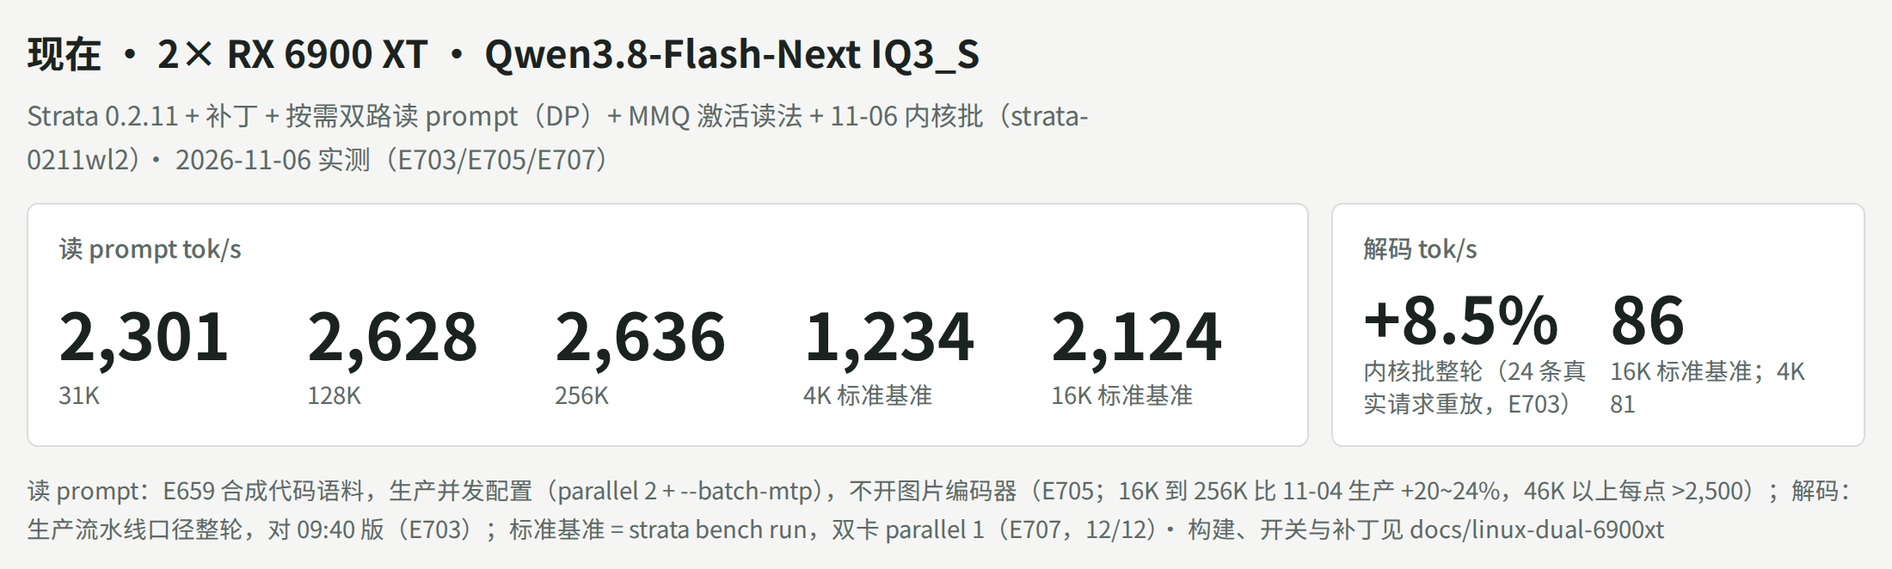
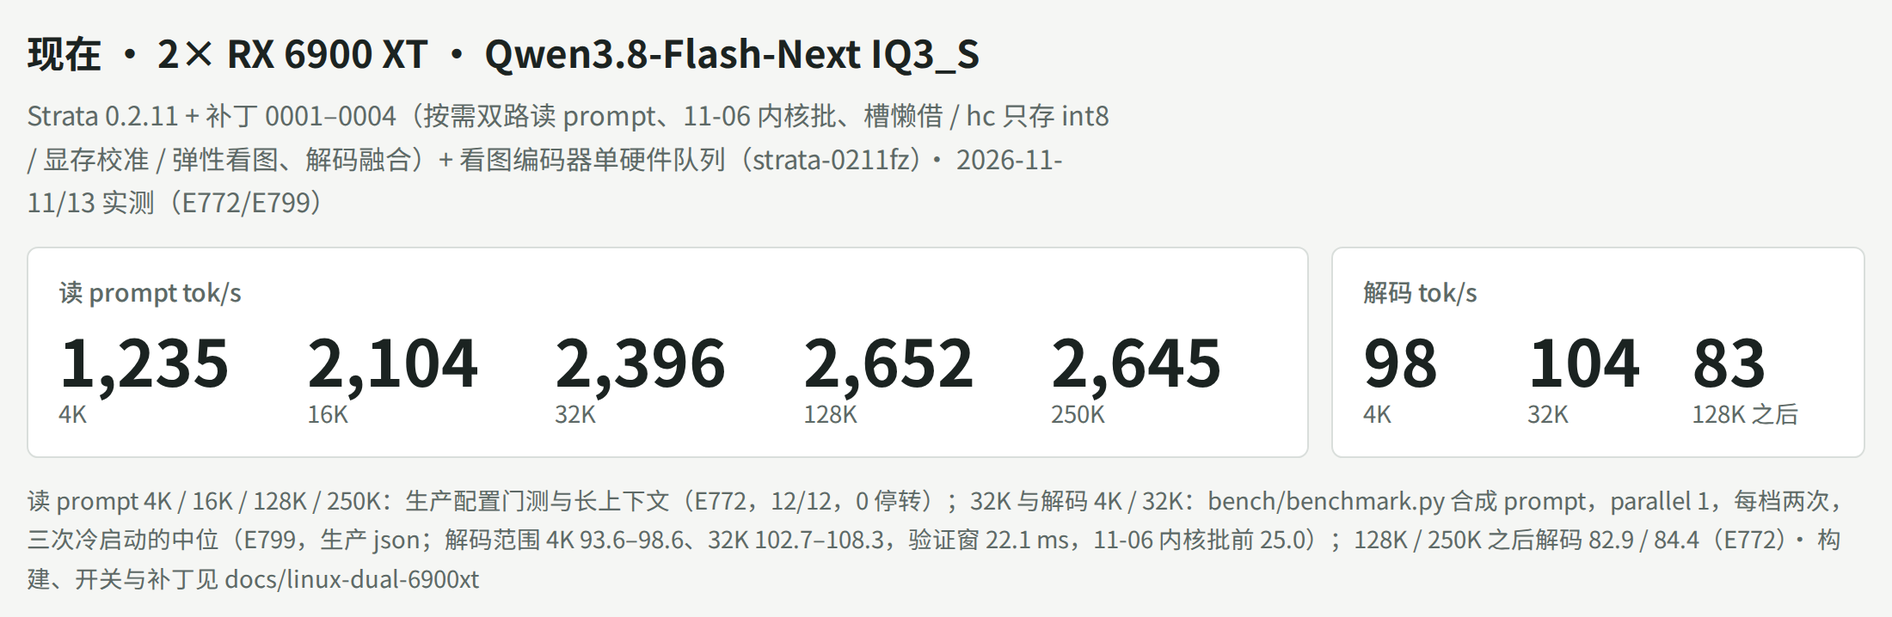
Now card and speed chart re-rendered for 0211fz (11-13)
index.html: the now card (prompt E772/E799, decode medians E799, after 128K E772), production
configuration details, two speed-chart points (11-06 kernel batch, 11-13 0211fz) with their
protocols in the chart note, axes 0-3000 / 20-110, five timeline steps 11-07 - 11-13;
data/linux-speed-steps.csv and timeline-steps CSVs follow.

diff --git a/index.html b/index.html
@@ -116,15 +116,15 @@ code{font-family:var(--f-data);font-size:.92em}
 <main>
 <section id="now">
   <h2><span class="zh">现在</span><span class="en">Now</span> · 2× RX 6900 XT · Qwen3.8-Flash-Next IQ3_S</h2>
-  <p class="now-sub"><span class="zh">Strata 0.2.11 + 补丁 + 按需双路读 prompt（DP）+ MMQ 激活读法 + 11-06 内核批（strata-0211wl2）· 2026-11-06 实测（E703/E705/E707）</span><span class="en">Strata 0.2.11 + patches + on-demand data-parallel prompt read (DP) + MMQ activation reads + the 11-06 kernel batch (strata-0211wl2) · measured 2026-11-06 (E703/E705/E707)</span></p>
+  <p class="now-sub"><span class="zh">Strata 0.2.11 + 补丁 0001–0004（按需双路读 prompt、11-06 内核批、槽懒借 / hc 只存 int8 / 显存校准 / 弹性看图、解码融合）+ 看图编码器单硬件队列（strata-0211fz）· 2026-11-11/13 实测（E772/E799）</span><span class="en">Strata 0.2.11 + patches 0001–0004 (on-demand DP prompt read, the 11-06 kernel batch, lazy slots / hc int8-only / VRAM calibration / elastic pictures, decode fusions) + the picture encoder on one hardware queue (strata-0211fz) · measured 2026-11-11/13 (E772/E799)</span></p>
   <div class="now2">
     <div class="grp"><span class="lbl"><span class="zh">读 prompt tok/s</span><span class="en">prompt tok/s</span></span>
-      <div class="row"><div><b>2,301</b><small>31K</small></div><div><b>2,628</b><small>128K</small></div><div><b>2,636</b><small>256K</small></div><div><b>1,234</b><small><span class="zh">4K 标准基准</span><span class="en">4K standard</span></small></div><div><b>2,124</b><small><span class="zh">16K 标准基准</span><span class="en">16K standard</span></small></div></div></div>
+      <div class="row"><div><b>1,235</b><small>4K</small></div><div><b>2,104</b><small>16K</small></div><div><b>2,396</b><small>32K</small></div><div><b>2,652</b><small>128K</small></div><div><b>2,645</b><small>250K</small></div></div></div>
     <div class="grp"><span class="lbl"><span class="zh">解码 tok/s</span><span class="en">decode tok/s</span></span>
-      <div class="row"><div><b>+8.5%</b><small><span class="zh">内核批整轮（24 条真实请求重放，E703）</span><span class="en">kernel batch, whole run (24 replayed real requests, E703)</span></small></div><div><b>86</b><small><span class="zh">16K 标准基准；4K 81</span><span class="en">16K standard; 4K 81</span></small></div></div></div>
+      <div class="row"><div><b>98</b><small>4K</small></div><div><b>104</b><small>32K</small></div><div><b>83</b><small><span class="zh">128K 之后</span><span class="en">after 128K</span></small></div></div></div>
   </div>
-  <p class="foot now-src"><span class="zh">读 prompt：E659 合成代码语料，生产并发配置（parallel 2 + --batch-mtp），不开图片编码器（E705；16K 到 256K 比 11-04 生产 +20~24%，46K 以上每点 >2,500）；解码：生产流水线口径整轮，对 09:40 版（E703）；标准基准 = strata bench run，双卡 parallel 1（E707，12/12）· 构建、开关与补丁见 docs/linux-dual-6900xt</span><span class="en">prompt: the E659 synthetic code corpus, production concurrent config (parallel 2 + --batch-mtp), no vision encoder (E705; +20~24% over the 11-04 production from 16K to 256K, every point from 46K up above 2,500); decode: production pipelined setup, whole run, against the 09:40 build (E703); standard = strata bench run, two cards, parallel 1 (E707, 12/12) · build, switches and patches: docs/linux-dual-6900xt</span></p>
-  <details class="now-more"><summary><span class="zh">生产配置细节</span><span class="en">Production configuration</span></summary><p class="foot"><span class="zh">生产（11-06 22:3x 起，strata-0211wl2-1a996f63；之前 00:57 起 0210dp、03:16 起 0211dp、09:40 起 0211scal）= Strata 上游 0.2.11（json 加 --vram-reserve-later-mib 444，与 0.2.10 逐 token 相同）+ MMQ 激活按 wave 统一读的 ggml 补丁（GGML_CUDA_MMQ_Y_SCALAR，读 prompt 4K–128K +2.8~4.9%，E685）+ 上游 PR #5002 的 DP 读 prompt（3 个提交 + dp-followups 2 个提交）+ 自有补丁：单路保留 pipeline-windows（STRATA_PW_WITH_BATCH=1，PR #3095）、RDNA2 读 prompt 注意力（PR #3381）、rocBLAS 解的本机缓存 + STRATA_PREFILL_STREAM_MIN=2048 + 自改的 llama.cpp ggml、按需 DP（patches/strata/）；layer_split 写死 27 + STRATA_STAGE_TRIM=1；GDN 组 + STRATA_DEQUANT_WIDE=1（10-30）；槽复制三开关（11-02）；STRATA_SIDE_MIXER=2（11-03，解码 +3%）；--spec 3 --spec-min-p 0.6（11-03）；DP：STRATA_DP_PREFILL=1 KV_HOST_DMA=1 DP_BATCH=1 DP_LAZY=1 DP_PEER_RES=0 DP_STAGE_W=3 DP_STAGE_MIN=0 DP_MIN=12288 DP_MTP_ALL=1 + --prefill 16384（11-06）。两路并发（parallel 2）；两卡降压 −81 mV @245 W；内核 7.0.0-42；BIOS Preferred IO=Manual。11-06 内核批（patches/strata/0002）：hc / attn_qkv 不 widen、int8 hc 副本（Q8_0 网格，STRATA_HC_PERSIST_Q8=2）、稠密 GEMV 与专家布局表、HIP SwiGLU+量化融合、上游合并开关、--mtp-q4 head、--vram-reserve-later-mib 844；读 32K +7.3%、解码整轮 +8.5%、门 12/12（E703/E704/E708）。</span><span class="en">Production (since 11-06 22:3x, strata-0211wl2-1a996f63; 0210dp from 00:57, 0211dp from 03:16, 0211scal from 09:40) = Strata upstream 0.2.11 (json adds --vram-reserve-later-mib 444, token-for-token identical to 0.2.10) + a ggml patch that reads the MMQ activations wave-uniformly (GGML_CUDA_MMQ_Y_SCALAR, prompt 4K–128K +2.8~4.9%, E685) + upstream PR #5002's DP prompt read (its 3 commits + the 2 dp-followups commits) + own patches: the solo path keeps --pipeline-windows (STRATA_PW_WITH_BATCH=1, PR #3095), the RDNA2 prompt attention (PR #3381), a per-device rocBLAS solution cache + STRATA_PREFILL_STREAM_MIN=2048 + a modified llama.cpp ggml, on-demand DP (patches/strata/); layer_split pinned to 27 with STRATA_STAGE_TRIM=1; the GDN group + STRATA_DEQUANT_WIDE=1 (10-30); the three slot-copy switches (11-02); STRATA_SIDE_MIXER=2 (11-03, decode +3%); --spec 3 --spec-min-p 0.6 (11-03); DP: STRATA_DP_PREFILL=1 KV_HOST_DMA=1 DP_BATCH=1 DP_LAZY=1 DP_PEER_RES=0 DP_STAGE_W=3 DP_STAGE_MIN=0 DP_MIN=12288 DP_MTP_ALL=1 + --prefill 16384 (11-06). Two parallel slots; both cards undervolted −81 mV at 245 W; kernel 7.0.0-42; BIOS Preferred IO = Manual. The 11-06 kernel batch (patches/strata/0002): hc / attn_qkv without widening, int8 hc copies (Q8_0 grid, STRATA_HC_PERSIST_Q8=2), dense GEMV and expert-layout tables, fused SwiGLU+quantize on HIP, upstream merge switches, --mtp-q4 head, --vram-reserve-later-mib 844; prompt 32K +7.3%, decode whole-run +8.5%, gate 12/12 (E703/E704/E708).</span></p></details>
+  <p class="foot now-src"><span class="zh">读 prompt 4K / 16K / 128K / 250K：生产配置门测与长上下文（E772，12/12，0 停转）；32K 与解码 4K / 32K：bench/benchmark.py 合成 prompt，parallel 1，每档两次，三次冷启动的中位（E799，生产 json；解码范围 4K 93.6–98.6、32K 102.7–108.3，验证窗 22.1 ms，11-06 内核批前 25.0）；128K / 250K 之后解码 82.9 / 84.4（E772）· 构建、开关与补丁见 docs/linux-dual-6900xt</span><span class="en">prompt 4K / 16K / 128K / 250K: production-config gate run and long context (E772, 12/12, 0 stalls); 32K and decode 4K / 32K: bench/benchmark.py synthetic prompts, parallel 1, two runs each, median of three cold starts (E799, production json; decode range 4K 93.6–98.6, 32K 102.7–108.3, 22.1 ms per verify window, 25.0 before the 11-06 kernel batch); decode after 128K / 250K 82.9 / 84.4 (E772) · build, switches and patches: docs/linux-dual-6900xt</span></p>
+  <details class="now-more"><summary><span class="zh">生产配置细节</span><span class="en">Production configuration</span></summary><p class="foot"><span class="zh">生产（11-11 22:3x 起，strata-0211fz-72bb0be6；之前 11-09 起 0211vx、11-07 起 0211lz、11-06 起 0211wl2）= Strata 上游 0.2.11 + MMQ 激活按 wave 统一读的 ggml 补丁 + 上游 PR #5002 的 DP 读 prompt + 自有补丁 patches/strata/0001–0004；layer_split 27 + STRATA_STAGE_TRIM=1；GDN 组 + STRATA_DEQUANT_WIDE=1；槽复制三开关；STRATA_SIDE_MIXER=2；--spec 3 --spec-min-p 0.6；DP_MIN=9216（11-07）；STRATA_SLOT_LAZY=1（11-07）；STRATA_HC_I8ONLY=1、STRATA_VRAM_CALIB=1（预留 340 / 564 只用于首次启动）、vram_elastic + 弹性看图编码器、STRATA_DP_YIELD=2（11-09）；六个解码融合 ROUTE_BELL / HCP_Q81 / FUSE_WAIT=2 / FETCH_REBASE / GU_SWIGLU / GDN_Q81（11-11）；看图编码器 GPU_MAX_HW_QUEUES=1（11-12，修 #267 停转）。两路并发（parallel 2）；两卡降压 −81 mV @245 W；内核 7.0.0-43；BIOS Preferred IO=Manual。</span><span class="en">Production (since 11-11 22:3x, strata-0211fz-72bb0be6; 0211vx from 11-09, 0211lz from 11-07, 0211wl2 from 11-06) = Strata upstream 0.2.11 + the ggml patch that reads the MMQ activations wave-uniformly + upstream PR #5002's DP prompt read + own patches patches/strata/0001–0004; layer_split 27 with STRATA_STAGE_TRIM=1; the GDN group + STRATA_DEQUANT_WIDE=1; the three slot-copy switches; STRATA_SIDE_MIXER=2; --spec 3 --spec-min-p 0.6; DP_MIN=9216 (11-07); STRATA_SLOT_LAZY=1 (11-07); STRATA_HC_I8ONLY=1, STRATA_VRAM_CALIB=1 (reserves 340 / 564 only for a first start), vram_elastic + the elastic picture encoder, STRATA_DP_YIELD=2 (11-09); six decode fusions ROUTE_BELL / HCP_Q81 / FUSE_WAIT=2 / FETCH_REBASE / GU_SWIGLU / GDN_Q81 (11-11); the picture encoder with GPU_MAX_HW_QUEUES=1 (11-12, fixes the #267 stall). Two parallel slots; both cards undervolted −81 mV at 245 W; kernel 7.0.0-43; BIOS Preferred IO = Manual.</span></p></details>
 </section>
 
 <section id="speed-sec">
@@ -136,7 +136,7 @@ code{font-family:var(--f-data);font-size:.92em}
     <span><i class="dot" style="background:var(--l-decode)"></i><span class="zh">解码（下图）</span><span class="en">decode (lower panel)</span></span>
   </div>
   <div class="panel"><div class="chart" id="speed"></div><p class="swipe"><span class="zh">← 图可以左右滑动 →</span><span class="en">← the chart scrolls sideways →</span></p>
-  <p class="foot"><span class="zh">把鼠标放在某一步上看那一步的全部数字。各点来自不同实验，条件不完全相同：4K 线的前两点是 5K prompt（E215），238abe8 / 341922e 的 4K 来自两份社区报告的 split 臂；spec3/0.7+win2 那点的 prompt 三档取 E383/E387 的生产臂（解码配置不改 prompt，E388 ±0.7%）；llama.cpp 和 132a522 是 37K（E215）；0.1.39 和 238abe8 来自 10-05 社区报告，当时自适应关着；61c59fa 只测了 128K（E300）；341922e 来自 E342；10-07 起的点来自 E362 / E380 / E382 / E383 的 P 臂（生产配置、图片编码器在 HIP0）；0.1.42+MTP batch 那点是 E415（社区报告 #1927 的 iq3s-split-prs 臂，无图片编码器）；0.1.43.1+PRs 那点是社区报告 #2237 的 prs 臂（不是生产二进制）；0.1.45+补丁 是 E504，0.2.3+补丁 是 E533（同 E415 的负载与配置，无图片编码器）；0.2.6 / 0.2.7 / 0.2.8 / GDN+宽解压 是 E587 / E596 / E620 / E623 的新臂（parallel 1，无图片编码器，生产 json）。最后两点的解码 84 / 86 比 0.2.7 的 81 高，是 pipeline-windows 2 下合成负载的跨运行波动（E620 同场 027f 对照 82.8；真实文本解码各版都是 79–80），不是提速。0.2.9（10-31）没有这一口径的数：确定性 A/B 与 0.2.8 逐字相同、±0.3%（E631）；槽复制（11-02）只在两路并发时起作用。虚线跨过没测这个指标的步骤。</span><span class="en">Hover a step for all its numbers. Points come from different experiments under slightly different conditions: the first two 4K points are 5K prompts (E215); the 4K of 238abe8 / 341922e comes from the split arms of two community reports; the spec3/0.7+win2 prompt numbers are the production arms of E383/E387 (the decode config does not change prompts, E388 ±0.7%); llama.cpp and 132a522 are 37K (E215); 0.1.39 and 238abe8 come from the 10-05 community report, adaptive swaps off at the time; 61c59fa measured 128K only (E300); 341922e is E342; from 10-07 the points are the P arms of E362 / E380 / E382 / E383 (production config, picture encoder on HIP0); 0.1.42+MTP batch is E415 (the iq3s-split-prs arm of community report #1927, no encoder); 0.1.43.1+PRs is the prs arm of community report #2237 (not the production binary); 0.1.45+patches is E504 and 0.2.3+patches E533 (the E415 load and config, no encoder); 0.2.6 / 0.2.7 / 0.2.8 / GDN+wide dequant are the new arms of E587 / E596 / E620 / E623 (parallel 1, no encoder, production json). The last two decode points (84 / 86 against 0.2.7's 81) are run-to-run swing of the synthetic load at pipeline-windows 2 (the same-session 027f control in E620 read 82.8; real-text decode is 79-80 on every version), not a speed-up. 0.2.9 (10-31) has no number on this protocol: its deterministic A/B against 0.2.8 is output-identical and ±0.3% (E631); slot copy (11-02) only acts on two concurrent requests. A dashed segment bridges steps where that metric was not measured.</span></p></div>
+  <p class="foot"><span class="zh">把鼠标放在某一步上看那一步的全部数字。各点来自不同实验，条件不完全相同：4K 线的前两点是 5K prompt（E215），238abe8 / 341922e 的 4K 来自两份社区报告的 split 臂；spec3/0.7+win2 那点的 prompt 三档取 E383/E387 的生产臂（解码配置不改 prompt，E388 ±0.7%）；llama.cpp 和 132a522 是 37K（E215）；0.1.39 和 238abe8 来自 10-05 社区报告，当时自适应关着；61c59fa 只测了 128K（E300）；341922e 来自 E342；10-07 起的点来自 E362 / E380 / E382 / E383 的 P 臂（生产配置、图片编码器在 HIP0）；0.1.42+MTP batch 那点是 E415（社区报告 #1927 的 iq3s-split-prs 臂，无图片编码器）；0.1.43.1+PRs 那点是社区报告 #2237 的 prs 臂（不是生产二进制）；0.1.45+补丁 是 E504，0.2.3+补丁 是 E533（同 E415 的负载与配置，无图片编码器）；0.2.6 / 0.2.7 / 0.2.8 / GDN+宽解压 是 E587 / E596 / E620 / E623 的新臂（parallel 1，无图片编码器，生产 json）。最后两点的解码 84 / 86 比 0.2.7 的 81 高，是 pipeline-windows 2 下合成负载的跨运行波动（E620 同场 027f 对照 82.8；真实文本解码各版都是 79–80），不是提速。0.2.9（10-31）没有这一口径的数：确定性 A/B 与 0.2.8 逐字相同、±0.3%（E631）；槽复制（11-02）只在两路并发时起作用。虚线跨过没测这个指标的步骤。最后两点口径不同：0.2.11+内核批（11-06）的 4K 读与解码是 strata bench run 标准基准（E707，解码取 16K），32K 是 31K 代码语料、128K 是 128.5K（E705，并发配置）；0211fz（11-13）的 4K / 32K 读与 32K 解码是 bench/benchmark.py 三次冷启动的中位（E799，生产 json，配置里有两个槽和看图编码器但负载里没有图），128K 是 E772。10-30 → 11-13 的解码增长与期间各步的实测增益连乘相符（内核批 +8.5%、槽懒借 +4.7%、0211vx +5.9%、解码融合 +1.3%，合计约 ×1.22）。</span><span class="en">Hover a step for all its numbers. Points come from different experiments under slightly different conditions: the first two 4K points are 5K prompts (E215); the 4K of 238abe8 / 341922e comes from the split arms of two community reports; the spec3/0.7+win2 prompt numbers are the production arms of E383/E387 (the decode config does not change prompts, E388 ±0.7%); llama.cpp and 132a522 are 37K (E215); 0.1.39 and 238abe8 come from the 10-05 community report, adaptive swaps off at the time; 61c59fa measured 128K only (E300); 341922e is E342; from 10-07 the points are the P arms of E362 / E380 / E382 / E383 (production config, picture encoder on HIP0); 0.1.42+MTP batch is E415 (the iq3s-split-prs arm of community report #1927, no encoder); 0.1.43.1+PRs is the prs arm of community report #2237 (not the production binary); 0.1.45+patches is E504 and 0.2.3+patches E533 (the E415 load and config, no encoder); 0.2.6 / 0.2.7 / 0.2.8 / GDN+wide dequant are the new arms of E587 / E596 / E620 / E623 (parallel 1, no encoder, production json). The last two decode points (84 / 86 against 0.2.7's 81) are run-to-run swing of the synthetic load at pipeline-windows 2 (the same-session 027f control in E620 read 82.8; real-text decode is 79-80 on every version), not a speed-up. 0.2.9 (10-31) has no number on this protocol: its deterministic A/B against 0.2.8 is output-identical and ±0.3% (E631); slot copy (11-02) only acts on two concurrent requests. A dashed segment bridges steps where that metric was not measured. The last two points use other protocols: 0.2.11+kernel batch (11-06) has 4K prompt and decode from the strata bench run standard benchmark (E707, decode at 16K), 32K from the 31K code corpus and 128K at 128.5K (E705, concurrent config); 0211fz (11-13) has 4K / 32K prompt and 32K decode as the median of three bench/benchmark.py cold starts (E799, production json with two slots and the picture encoder configured, no pictures in the load) and 128K from E772. The decode rise from 10-30 to 11-13 matches the measured gains of the steps in between multiplied together (kernel batch +8.5%, lazy slots +4.7%, 0211vx +5.9%, decode fusions +1.3%: about ×1.22).</span></p></div>
 </section>
 
 <section id="modes-sec">
@@ -256,6 +256,8 @@ const M=[
   {k:['0.2.7+补丁\n10-27','0.2.7+patches\n10-27'],p4:1009,p32:1786,p128:null,d:81.1},
   {k:['0.2.8+补丁\n10-30','0.2.8+patches\n10-30'],p4:1010,p32:1787,p128:null,d:84.3},
   {k:['GDN+宽解压\n10-30','GDN+wide DQ\n10-30'],p4:1088,p32:1893,p128:null,d:86.1},
+  {k:['内核批\n11-06','kernel batch\n11-06'],p4:1234,p32:2301,p128:2628,d:85.5},
+  {k:['0211fz\n11-13','0211fz\n11-13'],p4:1250,p32:2396,p128:2652,d:103.6},
 ];
 const SPEED_SER=[['p4','var(--l-stable)',['4K','4K']],['p32','var(--l-prompt)',['32K–37K','32K–37K']],['p128','var(--l-engine)',['128K','128K']],['d','var(--l-decode)',['解码','decode']]];
 
@@ -265,9 +267,9 @@ function drawSpeed(){
   const W=960,L=52,R=70,PT=22,PB=236,DT=270,DB=380,H=452;
   const svg=el('svg',{viewBox:`0 0 ${W} ${H}`,role:'img','aria-label':LANG==='en'?'Prompt and decode tok/s at each production state':'各生产状态的读 prompt 与解码速度'});
   const xs=i=>L+18+(W-L-R-36)*i/(M.length-1);
-  const yp=v=>PT+(PB-PT)*(1-v/2400), yd=v=>DT+(DB-DT)*(1-(v-20)/70);
-  [0,600,1200,1800,2400].forEach(v=>{svg.append(el('line',{x1:L,x2:W-R,y1:yp(v),y2:yp(v),stroke:'var(--rule)'}));svg.append(el('text',{x:L-8,y:yp(v)+4,'text-anchor':'end'},fmt(v)));});
-  [20,40,60,80].forEach(v=>{svg.append(el('line',{x1:L,x2:W-R,y1:yd(v),y2:yd(v),stroke:'var(--rule)'}));svg.append(el('text',{x:L-8,y:yd(v)+4,'text-anchor':'end'},String(v)));});
+  const yp=v=>PT+(PB-PT)*(1-v/3000), yd=v=>DT+(DB-DT)*(1-(v-20)/90);
+  [0,600,1200,1800,2400,3000].forEach(v=>{svg.append(el('line',{x1:L,x2:W-R,y1:yp(v),y2:yp(v),stroke:'var(--rule)'}));svg.append(el('text',{x:L-8,y:yp(v)+4,'text-anchor':'end'},fmt(v)));});
+  [20,40,60,80,100].forEach(v=>{svg.append(el('line',{x1:L,x2:W-R,y1:yd(v),y2:yd(v),stroke:'var(--rule)'}));svg.append(el('text',{x:L-8,y:yd(v)+4,'text-anchor':'end'},String(v)));});
   svg.append(el('text',{x:L,y:PT-8,style:'font-size:11.5px'},LANG==='en'?'prompt tok/s':'读 prompt tok/s'));
   svg.append(el('text',{x:L,y:DT-10,style:'font-size:11.5px'},LANG==='en'?'decode tok/s':'解码 tok/s'));
   M.forEach((m,i)=>L2(m.k).split('\n').forEach((s,j)=>svg.append(el('text',{x:xs(i),y:DB+20+j*13+(i%2)*30,'text-anchor':'middle',style:'font-size:10px'},s))));
@@ -441,7 +443,12 @@ const S=[
  ["11-06", "17:03", "drop", ["五个内核方向实测后关闭（E687/E702、E691、E693c、E694b、E700）", "five kernel ideas measured and closed (E687/E702, E691, E693c, E694b, E700)"], ["都来自逐内核耗时排序或纸面计划", "each came from a per-kernel time ranking or a paper plan"], [[["读 prompt 注意力 dot2 打分：内核 −14%，但输出误差 3e-3 对 2e-6", "prompt attention with dot2 scores: kernel −14% but output error 3e-3 vs 2e-6"], "down"], [["MMQ IQ2_S / Q2_0 压 VGPR：不快", "MMQ IQ2_S / Q2_0 at fewer VGPRs: no faster"], "down"], [["hc 读去屏障：原子单屏障慢 22%，同步每读只 ~4 µs", "hc read without barriers: an atomic barrier was 22% slower, the sync is ~4 µs a read"], "down"], [["int8 hc 读内预取：只省 0.4 µs", "prefetch inside the int8 hc read: −0.4 µs"], "down"], [["奖励 token 押第二假设：命中 31%，但每多一行卡 0 +1.9 ms", "a second guess on the bonus token: q = 31% but every extra row costs card 0 +1.9 ms"], "down"]]],
  ["11-06", "18:40", "decode", ["合并版内核批验证完（E688–E704；第一版，hc 网格较粗，未上线）", "merged kernel batch verified (E688–E704; first build, coarser hc grid, not shipped)"], ["各项先单独验证过（逐位自检、单核基准或 A/B）：hc / attn_qkv 保持 FP16 不 widen、int8 hc 副本、稠密 GEMV 与专家布局表、HIP 上 SwiGLU+量化融合、上游合并开关、Q4 草稿头", "the changes, each checked alone first (bitwise test, kernel benchmark or A/B): FP16 hc / attn_qkv without widening, int8 hc copies, dense GEMV and expert-layout tables, fused SwiGLU+quantize on HIP, upstream merge switches, Q4 draft head"], [[["读 prompt 8K +4.4%、32K +7.3%；解码整轮 +8.5%（三组插值）；对 double 参照的 KL 不变，top-10 重合 −1.3 个百分点；门 12/12；128K 2,645 / 200K 2,715", "prompt 8K +4.4%, 32K +7.3%; decode whole-run +8.5% (three interpolated pairs); KL to a double reference unchanged, top-10 overlap −1.3 points; gate 12/12; 128K 2,645 / 200K 2,715"], "up"], [["卡 0 装完余量 908 → 452 MiB；带视觉的最坏并发压测 9/9，显存峰值 16.3 GB，无分页", "card 0 keeps 452 MiB free instead of 908; a worst-case concurrent run with vision 9/9, VRAM peak 16.3 GB, no paging"], "flat"]]],
  ["11-06", "22:30", "decode", ["合并版内核批上生产，int8 hc 副本改用 Q8_0 网格（strata-0211wl2-1a996f63，E705–E708）", "merged kernel batch in production with the int8 hc copies on Q8_0's grid (strata-0211wl2-1a996f63, E705–E708)"], ["第一版的网格较粗，量化误差是 Q8_0 网格（每 32 个值一个 fp16 scale，上游 STRATA_HC_Q8 用的网格）的 1.3–1.6 倍（E708a），所以切生产前把副本改成这个网格", "the first build's coarser grid had 1.3–1.6× the quantisation error of Q8_0's grid (one fp16 scale per 32 values, the grid of upstream's STRATA_HC_Q8; E708a), so the copies were remade on that grid before the switch-over"], [[["读 prompt 曲线 16K 到 256K 比 11-04 生产 +20~24%，128.5K 2,628、256K 2,636，46K 以上每个点都 >2,500；16K 起 DP 对层分 +10~26%；标准基准 4K / 16K 1,234 / 2,124", "prompt curve +20~24% over the 11-04 production from 16K to 256K, 128.5K 2,628, 256K 2,636, every point from 46K up above 2,500; DP over layer split +10~26% from 16K; standard benchmark 4K / 16K 1,234 / 2,124"], "up"], [["Q8_0 网格：自检误差 0.00705 → 0.00497，top-10 重合 −0.7 个百分点（旧 −1.3），解码 +0.3%（噪声），门 12/12", "Q8_0 grid: self-check error 0.00705 → 0.00497, top-10 overlap −0.7 points instead of −1.3, decode +0.3% (noise), gate 12/12"], "flat"], [["单卡：641 MiB 副本让草稿头在两次冷启动里有一次装不下", "one card: the 641 MiB of copies left too little for the draft head in one of two cold starts"], "down"]]],
- ["11-07", "12:40", "prompt", ["DP 门槛 12,288 → 9,216（E712、E714）", "DP threshold 12,288 → 9,216 (E712, E714)"], ["生产的 STRATA_DP_MIN 从没扫过；在生产二进制上扫，8.7K 走 DP 慢 2%，9.2K 起赢", "production had never swept STRATA_DP_MIN; a sweep on the production binary showed DP losing 2% at 8.7K and winning from 9.2K"], [[["9.2K–12.3K 的 prompt +7~21%（9.2K +7%、11.3K +21%），更短和更长的不变；10.5K 请求 1,816 tok/s（改前 1,631）", "9.2K–12.3K prompts +7~21% (9.2K +7%, 11.3K +21%), shorter and longer unchanged; a 10.5K request 1,816 tok/s (1,631 before)"], "up"], [["读后解码无一致变化；门 12/12、0 停转", "decode after the read: no consistent change; gate 12/12, 0 stalls"], "flat"]]]
+ ["11-07", "12:40", "prompt", ["DP 门槛 12,288 → 9,216（E712、E714）", "DP threshold 12,288 → 9,216 (E712, E714)"], ["生产的 STRATA_DP_MIN 从没扫过；在生产二进制上扫，8.7K 走 DP 慢 2%，9.2K 起赢", "production had never swept STRATA_DP_MIN; a sweep on the production binary showed DP losing 2% at 8.7K and winning from 9.2K"], [[["9.2K–12.3K 的 prompt +7~21%（9.2K +7%、11.3K +21%），更短和更长的不变；10.5K 请求 1,816 tok/s（改前 1,631）", "9.2K–12.3K prompts +7~21% (9.2K +7%, 11.3K +21%), shorter and longer unchanged; a 10.5K request 1,816 tok/s (1,631 before)"], "up"], [["读后解码无一致变化；门 12/12、0 停转", "decode after the read: no consistent change; gate 12/12, 0 stalls"], "flat"]]],
+ ["11-07", "21:00", "decode", ["槽会话懒借上生产（STRATA_SLOT_LAZY=1，strata-0211lz-2d7e262a，E716–E717）", "lazy slot sessions in production (STRATA_SLOT_LAZY=1, strata-0211lz-2d7e262a, E716–E717)"], ["--parallel 2 的两个槽会话每卡占了约 530 个专家槽；批 MTP 路径本身不花时间（E716b）", "the two --parallel 2 slot sessions held ~530 expert slots per card; the batch-MTP path itself cost nothing (E716b)"], [[["单请求解码每窗 −4.7%（3/3）", "single-request decode −4.7% per window (3/3)"], "up"], [["门 12/12；两路各 160 请求压测 0 停转", "gate 12/12; two 160-request streams 0 stalls"], "flat"]]],
+ ["11-09", "16:10", "decode", ["0211vx 上生产（patches/strata/0003，E719–E739）", "0211vx in production (patches/strata/0003, E719–E739)"], ["hc 只存 int8、显存账本 + 校准、DP 暂存借槽、VMM 按卡（amdgpu 重映射写坏旧页，TheRock#8744）、弹性看图编码器", "hc int8-only, VRAM ledger + calibration, DP staging borrow, VMM per device (amdgpu remaps wrote to stale pages, TheRock#8744), elastic picture encoder"], [[["开看图：每窗 −5.6%、每 ms token +6.6%、槽 +410 / +1,160", "with pictures: −5.6% per window, tokens/ms +6.6%, slots +410 / +1,160"], "up"], [["空闲 120 s 后第一张图 5.6 s（原约 2 s）", "first picture after 120 s idle 5.6 s (was ~2 s)"], "down"]]],
+ ["11-11", "22:30", "decode", ["解码融合上生产（patches/strata/0004，strata-0211fz-72bb0be6，E759–E772）", "decode fusions in production (patches/strata/0004, strata-0211fz-72bb0be6, E759–E772)"], ["六个 opt-in 融合：路由器写门铃、hc 读自量化、计划等待与拷贝合并、拷贝里改指针、gate/up 并 SwiGLU、GDN 投影 q8_1；每窗图节点 1,056 → 865", "six opt-in fusions: router doorbell, hc read quantising its input, plan wait and copy in one launch, pointers rebased in the copy, gate/up with SwiGLU, GDN projections on q8_1; graph 1,056 → 865 nodes per window"], [[["每窗 −1.3%（三对同向），每 ms token 持平", "−1.3% per window (three pairs), tokens/ms flat"], "up"], [["门 12/12；128K / 250K 读 2,652 / 2,645", "gate 12/12; 128K / 250K prompt 2,652 / 2,645"], "flat"]]],
+ ["11-12", "22:20", "stable", ["看图编码器只用一个硬件队列（GPU_MAX_HW_QUEUES=1，E781–E796）", "picture encoder on one hardware queue (GPU_MAX_HW_QUEUES=1, E781–E796)"], ["#267 停转 = 引擎加编码器在卡 0 上的硬件队列超过调度器槽位（Runlist oversubscribed）；SDMA=0、--adapt-swaps 0 只是碰巧减少了队列数", "the #267 stall = engine plus encoder had more hardware queues on card 0 than the scheduler has slots (runlist oversubscribed); SDMA=0 and --adapt-swaps 0 only happened to lower the queue count"], [[["复现器 2–17 张图必停 → 连续 27 张 0 停转、0 超额，OCR 不变", "reproducer stalled within 2–17 pictures → 27 in a row, 0 stalls, 0 oversubscription, OCR unchanged"], "up"], [["门 12/12；新固件 0x86 修不了（E797）", "gate 12/12; firmware 0x86 does not fix it (E797)"], "flat"]]],
+ ["11-13", "14:00", "drop", ["上游 Foresight 换入区关闭（E803–E820）；引擎硬件队列 5、草稿挪第一张卡也否（E799、E798）", "upstream Foresight swap space closed (E803–E820); engine hardware queues 5 and the draft on the first card closed too (E799, E798)"], ["开 FS 先慢 26–43%：原因是填充线程继承了主机线程的核（release_host_inheritors 只在 PIPED_CONCURRENT 路径执行，FS 把它关了），挪走即恢复（E814）", "FS was 26–43% slower at first: the filler thread inherited the host thread's core (release_host_inheritors only runs on the PIPED_CONCURRENT path, which FS turns off); moving it removed the cost (E814)"], [[["之后 6 组对同时段基线 +0.5% 到 −2.6%；CPU 预测线程有害无益", "then six arms +0.5 to −2.6% against same-session baselines; the CPU look-ahead thread hurt and saved nothing"], "down"], [["重写版纸面估算约 2–3%：槽和专家缓存抢同一块显存", "a rewrite estimated at ~2–3%: the slots compete with the expert cache for VRAM"], "down"], [["引擎队列 5：−4.1%；草稿挪卡：−13.4%", "engine queues 5: −4.1%; draft on the first card: −13.4%"], "down"]]]
 ];
 const on=new Set(Object.keys(LANES));
 // grouped bars: groups = [[zh,en]...]; series = [[[zh,en] name, colour, prompt[], decode[]]...]; panels = [[title zh/en, 'p'|'d', max, ticks]...]

diff --git a/data/README.md b/data/README.md
@@ -6,7 +6,7 @@ Text and data: CC BY-NC 4.0.
 
 | File | Rows | Columns | Chart / source |
 |---|---|---|---|
-| `linux-speed-steps.csv` | each production state of the two-card Linux box, llama.cpp 10-02 → Strata 0.2.8 + GDN group / wide dequant 10-30 | `step`, `date` (MM-DD, 2026), prompt tok/s at 4K, at 32K–37K, at 128K, decode tok/s | `docs/speed-chart-*`; conditions differ between points (see the note under the chart in `index.html`) |
+| `linux-speed-steps.csv` | each production state of the two-card Linux box, llama.cpp 10-02 → Strata 0.2.11 + patches 0001–0004 (0211fz) 11-13 | `step`, `date` (MM-DD, 2026), prompt tok/s at 4K, at 32K–37K, at 128K, decode tok/s | `docs/speed-chart-*`; conditions differ between points (see the note under the chart in `index.html`) |
 | `linux-breakdown-prompt-e505.csv` | 4K / 32K / 128K × stock (0.2.0-beta) / tuned (10-20 production) | ms per 1,000 prompt tokens per phase, total, tok/s | `docs/breakdown-prompt-*`; phases are estimates from the engine's timing switches, totals measured (E505) |
 | `linux-breakdown-decode-e505.csv` | the same | ms per decoded token per phase, total, tok/s | `docs/breakdown-decode-*` (E505) |
 | `linux-modes-0.1.41-32k.csv` | stock / two switches / PRs / E387 config × one card / expert helper / layer split | prompt and decode tok/s at 32K | `docs/modes-chart-*` (E388 / E388a, Strata 0.1.41) |

diff --git a/docs/linux-history.md b/docs/linux-history.md
@@ -8,7 +8,7 @@ Tuning log for **Qwen3.8-Flash-Next (GSQ-RCO IQ3_S)** on a home box with **2x AM
 
 <picture>
   <source media="(prefers-color-scheme: dark)" srcset="speed-chart-en-dark.png">
-  <img alt="Prompt and decode speed, step by step, llama.cpp 10-02 to Strata 0.2.8 + GDN group / wide dequant 10-30" src="speed-chart-en-light.png" width="100%">
+  <img alt="Prompt and decode speed, step by step, llama.cpp 10-02 to Strata 0.2.11 + patches 0001-0004 (0211fz) 11-13" src="speed-chart-en-light.png" width="100%">
 </picture>
 
 *Prompt tok/s at 4K, 32K–37K and 128K (left axis) and decode tok/s (right axis) at each production state. Points come from different experiments under slightly different conditions (the 4K points of the first two steps are 5K prompts; from 10-20 the points are E504 / E533 / E587 / E596 / E620 / E623, the same load on each production, parallel 1, no encoder; the last two decode points, 84 / 86, are run-to-run swing at pipeline-windows 2 - real-text decode is 79-80 on every version; 0.2.9 is output-identical to 0.2.8 and ±0.3% (E631), so it has no point of its own; the notes under the chart on the interactive page list the rest); a dashed segment bridges a step where that metric was not measured.*

diff --git a/docs/linux-history.zh-CN.md b/docs/linux-history.zh-CN.md
@@ -8,7 +8,7 @@
 
 <picture>
   <source media="(prefers-color-scheme: dark)" srcset="speed-chart-dark.png">
-  <img alt="读 prompt 与解码速度逐步变化：llama.cpp 10-02 到 Strata 0.2.8 + GDN 组 / 宽解压 10-30" src="speed-chart-light.png" width="100%">
+  <img alt="读 prompt 与解码速度逐步变化：llama.cpp 10-02 到 Strata 0.2.11 + 补丁 0001–0004（0211fz）11-13" src="speed-chart-light.png" width="100%">
 </picture>
 
 *各生产状态的读 prompt（4K、32K–37K、128K，左轴）和解码（右轴）tok/s。各点来自不同实验、条件不完全相同（前两步的 4K 点是 5K prompt；10-20 起各点是 E504 / E533 / E587 / E596 / E620 / E623，各版生产配置跑同一负载，parallel 1，无图片编码器；最后两点的解码 84 / 86 是 pipeline-windows 2 下的跨运行波动，真实文本解码各版都是 79–80；0.2.9 与 0.2.8 逐字相同、±0.3%（E631），不单列一点；其余见交互页图下说明）；虚线段表示那一步没测这个指标。*
